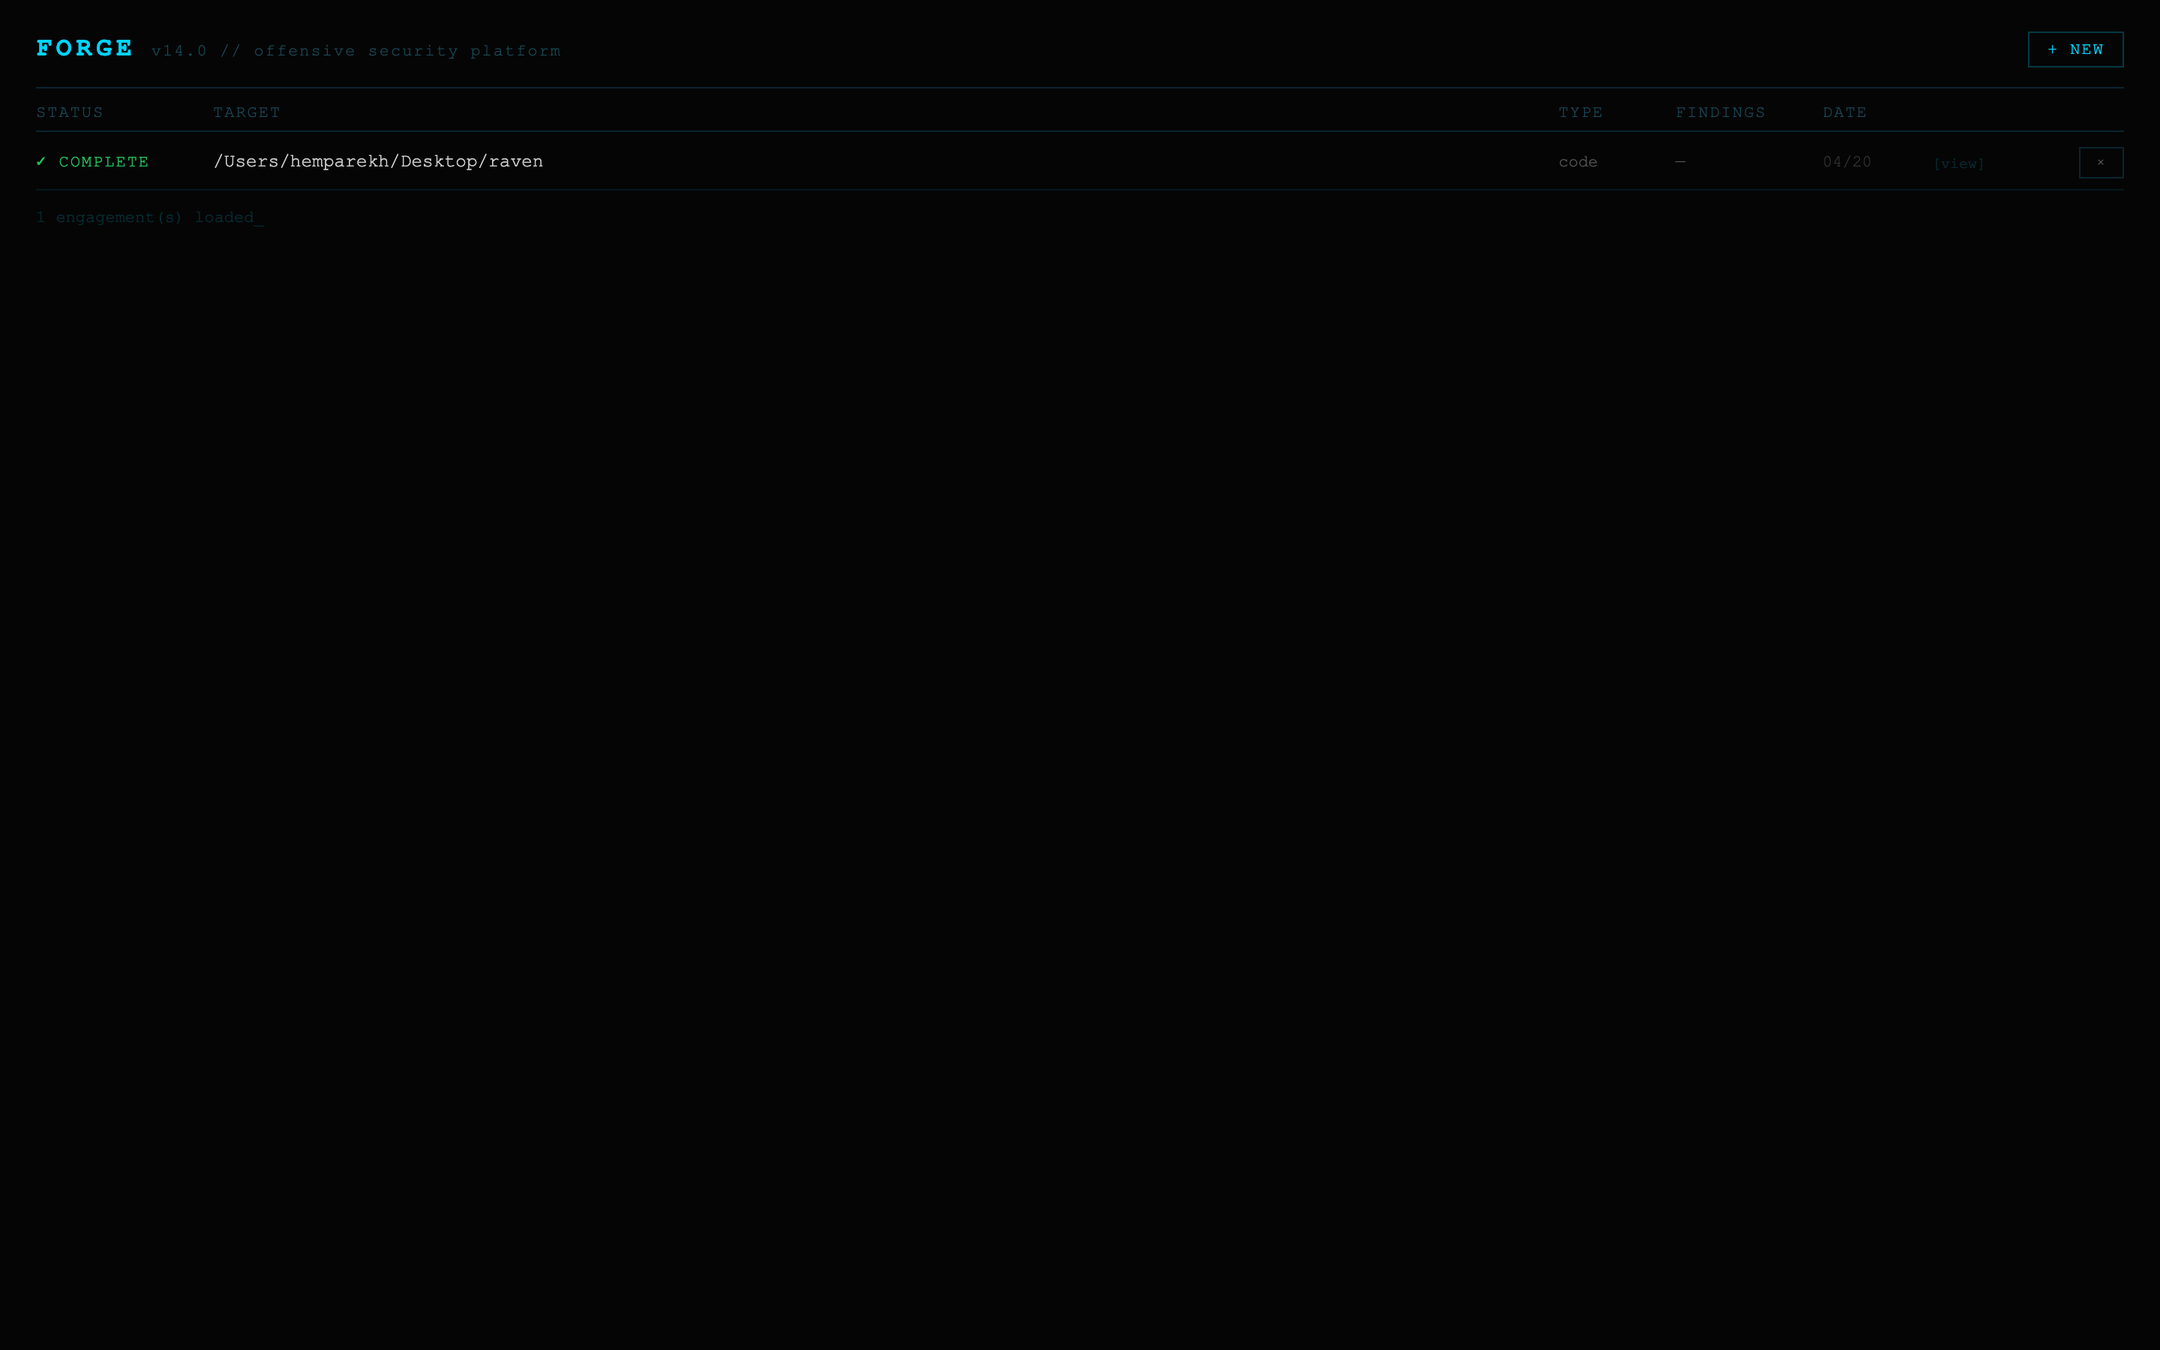
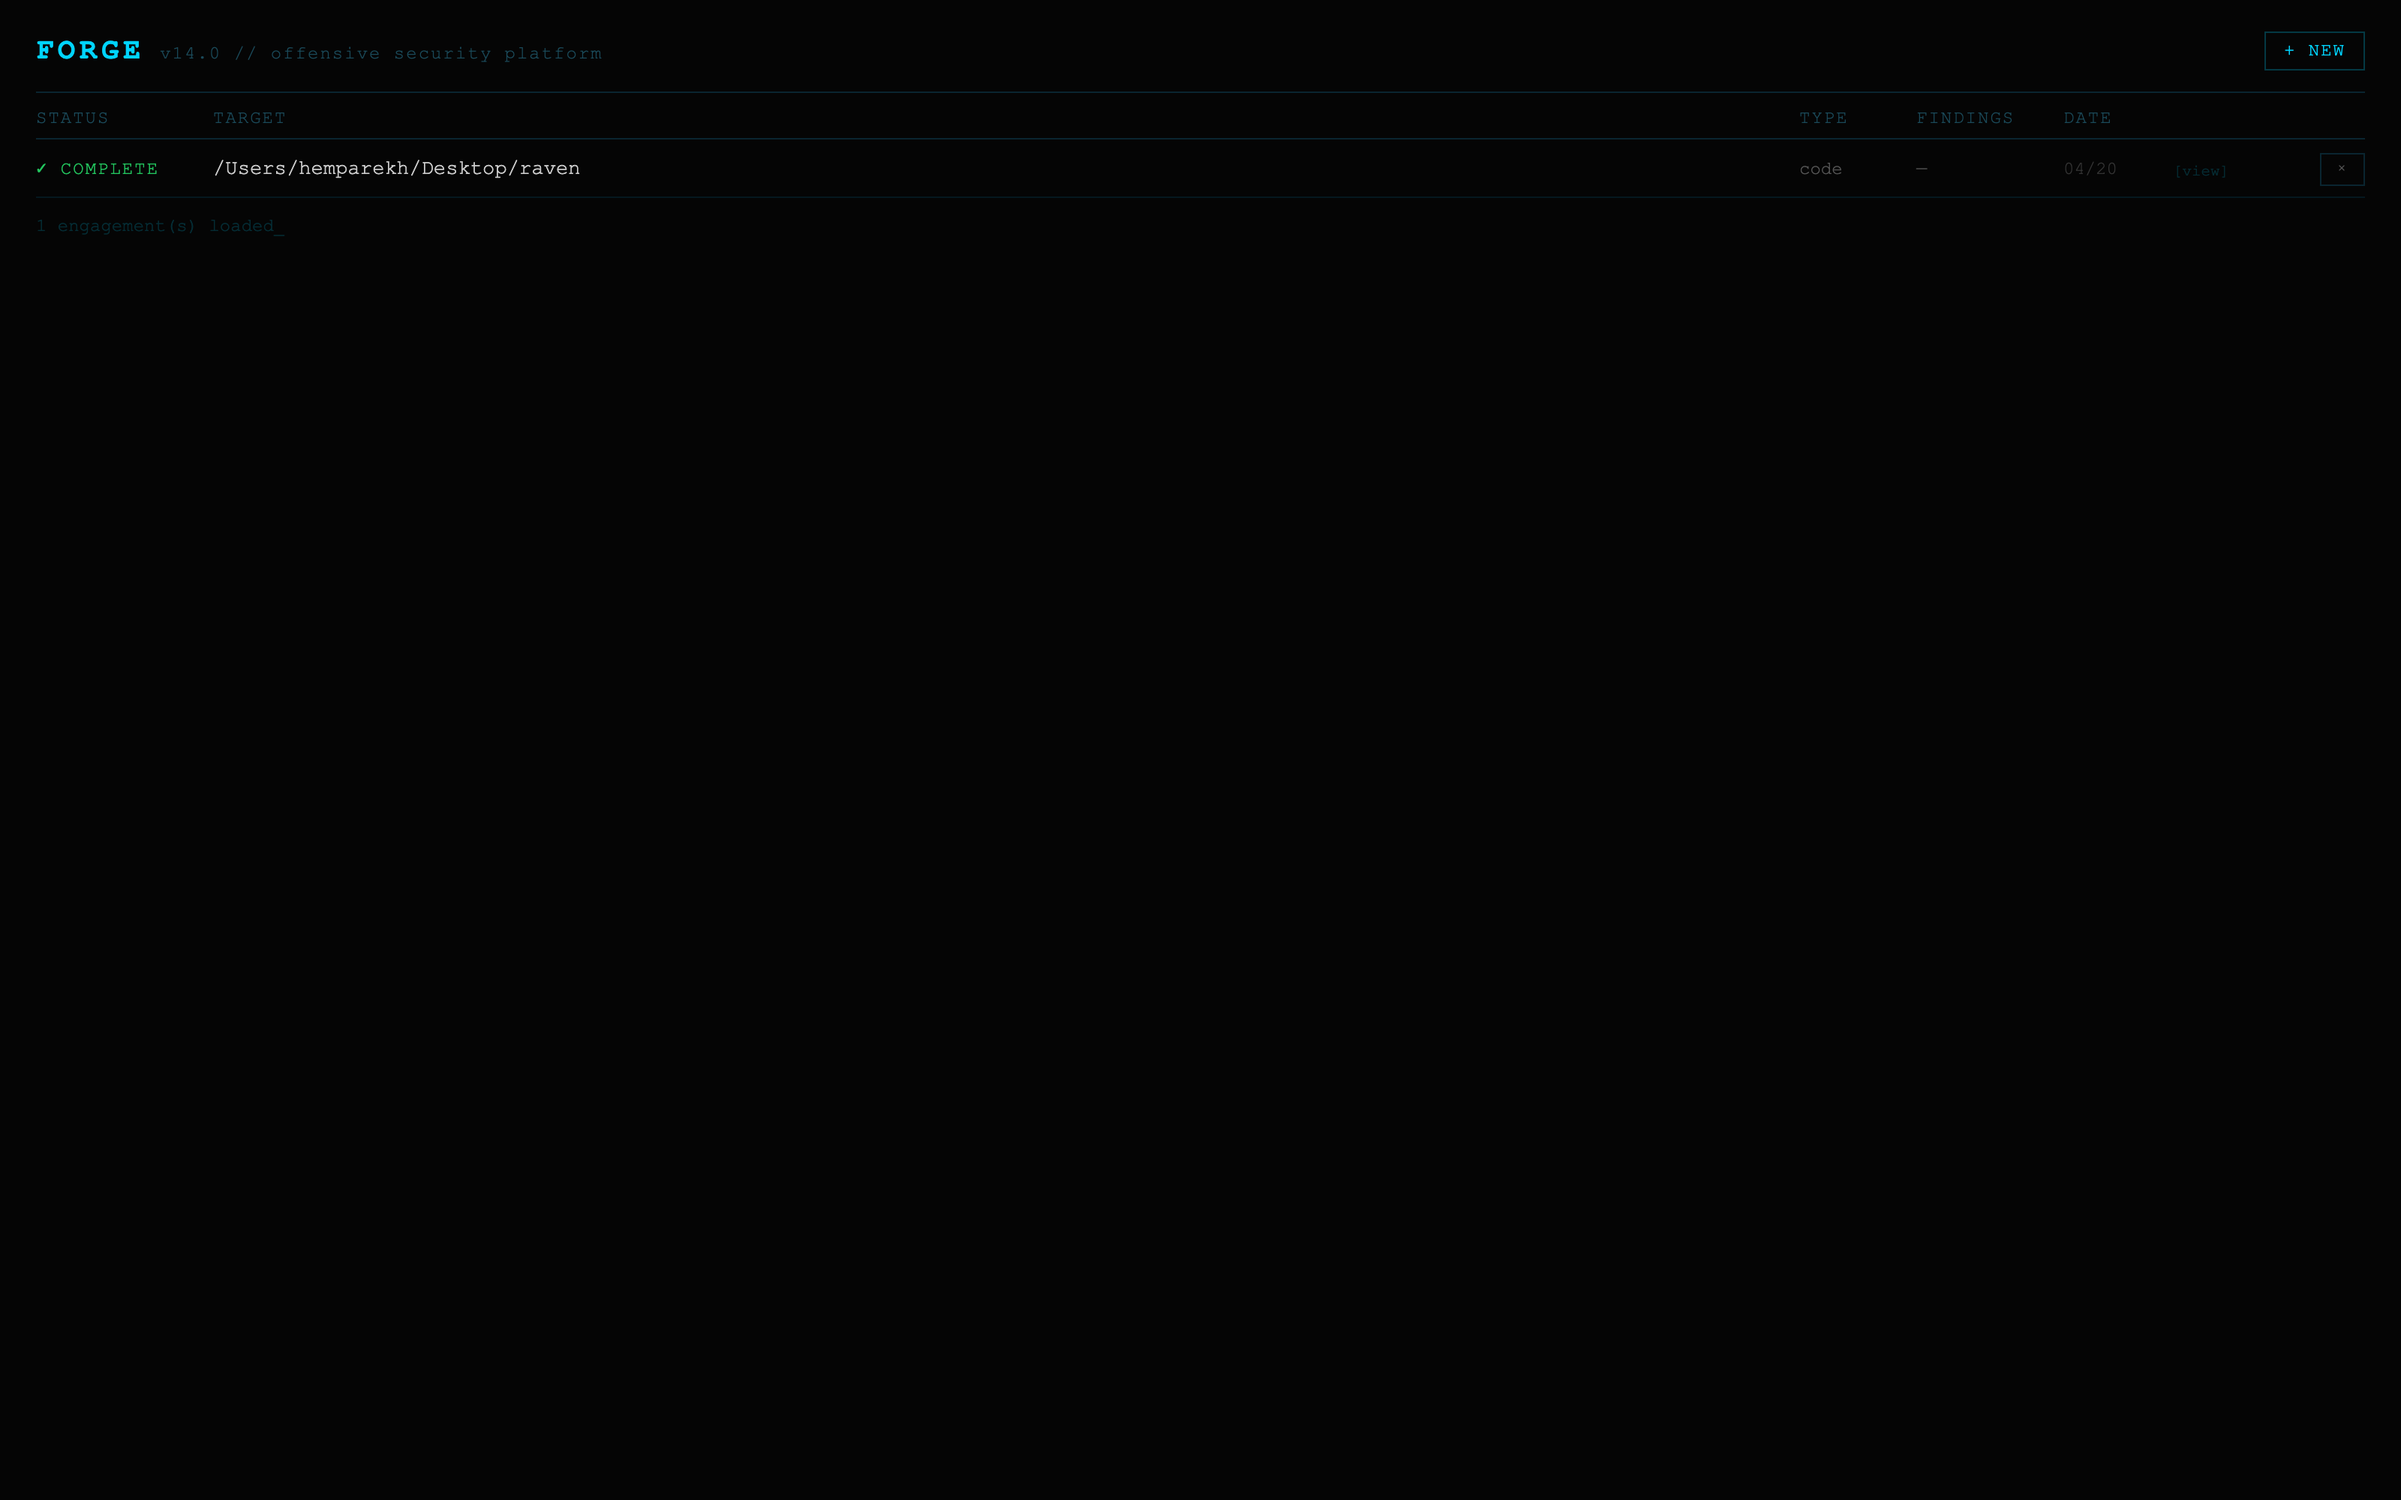
docs: replace tall engagement screenshot with focused console + findings pair

diff --git a/scripts/capture_screenshots.py b/scripts/capture_screenshots.py
@@ -7,7 +7,7 @@ Run from backend venv:
 import asyncio
 from pathlib import Path
 
-from playwright.async_api import async_playwright
+from playwright.async_api import Page, async_playwright
 
 OUT = Path(__file__).resolve().parent.parent / "docs" / "screenshots"
 OUT.mkdir(parents=True, exist_ok=True)
@@ -17,23 +17,41 @@ FINDING_ID = "68b28a23-3e08-4833-853c-f71d777de2f4"
 BASE = "http://localhost:5173"
 
 
+async def shot(page: Page, name: str, url: str, *, full: bool = False, wait_ms: int = 1500, selector: str | None = None) -> None:
+    print(f"→ {name}")
+    await page.goto(url, wait_until="networkidle")
+    await page.wait_for_timeout(wait_ms)
+    if selector:
+        el = page.locator(selector)
+        await el.screenshot(path=str(OUT / name))
+    else:
+        await page.screenshot(path=str(OUT / name), full_page=full)
+
+
 async def main() -> None:
     async with async_playwright() as p:
         browser = await p.chromium.launch()
-        ctx = await browser.new_context(viewport={"width": 1440, "height": 900}, device_scale_factor=2)
+        ctx = await browser.new_context(viewport={"width": 1600, "height": 1000}, device_scale_factor=2)
         page = await ctx.new_page()
 
-        shots = [
-            ("dashboard.png",   f"{BASE}/",                                                     False),
-            ("engagement.png",  f"{BASE}/engagement/{ENGAGEMENT_ID}",                           True),
-            ("finding.png",     f"{BASE}/engagement/{ENGAGEMENT_ID}/findings/{FINDING_ID}",     True),
-        ]
+        # Dashboard (viewport)
+        await shot(page, "dashboard.png", f"{BASE}/")
 
-        for name, url, full in shots:
-            print(f"→ {name} ← {url}")
-            await page.goto(url, wait_until="networkidle")
-            await page.wait_for_timeout(1500)
-            await page.screenshot(path=str(OUT / name), full_page=full)
+        # Engagement — three framings
+        eng_url = f"{BASE}/engagement/{ENGAGEMENT_ID}"
+        # 1. Above-the-fold: header + live console
+        await shot(page, "engagement-console.png", eng_url)
+        # 2. Full page: console + status + findings + report
+        await shot(page, "engagement-full.png", eng_url, full=True)
+        # 3. Findings table + report summary (scroll and clip viewport)
+        await page.goto(eng_url, wait_until="networkidle")
+        await page.wait_for_timeout(1500)
+        await page.evaluate("window.scrollTo(0, 700)")
+        await page.wait_for_timeout(400)
+        await page.screenshot(path=str(OUT / "engagement-findings.png"))
+
+        # Finding detail — full page
+        await shot(page, "finding.png", f"{BASE}/engagement/{ENGAGEMENT_ID}/findings/{FINDING_ID}", full=True)
 
         await browser.close()
     print(f"\nsaved to {OUT}")

diff --git a/README.md b/README.md
@@ -23,9 +23,13 @@ A multi-agent autonomous pentesting platform. FORGE supports web applications, l
 
 ![Dashboard](docs/screenshots/dashboard.png)
 
-**Engagement page** — live swarm console (events rehydrate on refresh), compact status strip, findings table, and severity-scaled report summary:
+**Engagement page (console)** — live swarm console with per-type event rendering, compact status strip, and start of the findings table:
 
-![Engagement](docs/screenshots/engagement.png)
+![Engagement console](docs/screenshots/engagement-console.png)
+
+**Engagement page (findings + report)** — full findings table with severity chips and the report summary with severity-scaled bars:
+
+![Engagement findings](docs/screenshots/engagement-findings.png)
 
 **Finding detail** — description + evidence, LLM-generated exploit walkthrough with Mermaid attack path, runnable PoC script with sequence diagram, and live exploit execution with verdict override:
 
